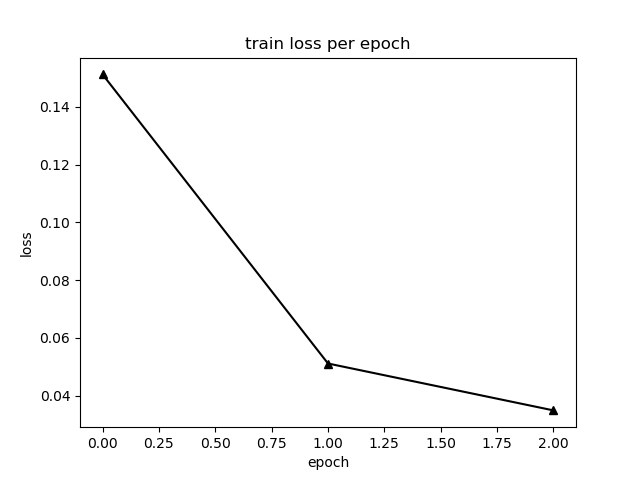
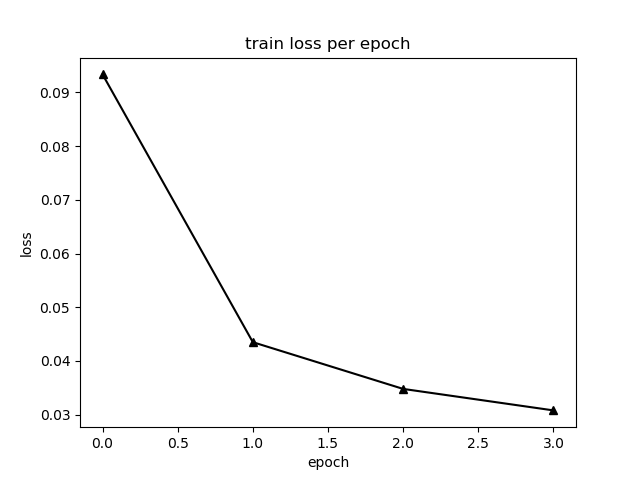
fixed color jitter

diff --git a/neuralnetwork/dataset.py b/neuralnetwork/dataset.py
@@ -11,7 +11,8 @@ class MyDataset(Dataset):
         self.target_paths = target_paths
         self.train = train
         # Color jitter
-        # self.colorTransform = transforms.Compose([transforms.ColorJitter(brightness=0.25, contrast=0.25, saturation=0.25, hue=0.1)])
+        self.colorTransform = transforms.Compose([transforms.ColorJitter(brightness=0.25, contrast=0.25, saturation=0.25, hue=0.1)
+        ])
 
     def transform(self, image, mask):
         
@@ -28,22 +29,20 @@ class MyDataset(Dataset):
         #     mask = TF.crop(mask, i, j, h, w)
 
         # Random horizontal flipping
-        # if self.train:
-        #     if random.random() > 0.5:
-        #         image = TF.hflip(image)
-        #         mask = TF.hflip(mask)
+        if self.train:
+            if random.random() > 0.5:
+                image = TF.hflip(image)
+                mask = TF.hflip(mask)
 
         # Random vertical flipping
-        # if self.train:
-        #     if random.random() > 0.5:
-        #         image = TF.vflip(image)
-        #         mask = TF.vflip(mask)
+        if self.train:
+            if random.random() > 0.5:
+                image = TF.vflip(image)
+                mask = TF.vflip(mask)
             
             
 
-        # Transform to tensor
-        image = TF.to_tensor(image)
-        mask = TF.to_tensor(mask)
+       
         return image, mask
 
     def __getitem__(self, index):
@@ -57,6 +56,10 @@ class MyDataset(Dataset):
 
         #color jitter 
         # x = self.colorTransform(x)
+
+        # Transform to tensor
+        x = TF.to_tensor(x)
+        y = TF.to_tensor(y)
 
         return x, y, file_name
         

diff --git a/neuralnetwork/train_dataset.py b/neuralnetwork/train_dataset.py
@@ -77,7 +77,7 @@ num_epochs_eval = 1
 batch_size = 10
 batch_size_eval = 2
 learning_rate = 0.0001
-model_id = "6"
+model_id = "7"
 
 image_paths = os.listdir(path_train)
 target_paths = os.listdir(path_test)
